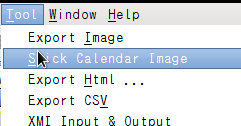
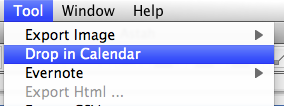
add screenshots

diff --git a/README.md b/README.md
@@ -2,10 +2,11 @@ Drop in Calendar plugin for Astah
 ===============================================
 
 ![sample image](https://github.com/ChangeVision/astah-stick-calendar-image-plugin/raw/master/doc/screeenshots/calendar.png)
+![sample image_ja](https://github.com/ChangeVision/astah-stick-calendar-image-plugin/raw/master/doc/screeenshots/calendar_ja.png)
 
 Version
 ------------
-1.0.0
+1.0.2
 
 Available for
 ------------
@@ -22,6 +23,7 @@ How to install
 3. You find that the [Stick Calendar] has been added under the [Tool] menu
 
 ![menu image](https://github.com/ChangeVision/astah-stick-calendar-image-plugin/raw/master/doc/screeenshots/calendar_menu.png)
+![menu image_ja](https://github.com/ChangeVision/astah-stick-calendar-image-plugin/raw/master/doc/screeenshots/calendar_menu_ja.png)
 
 License
 ------------
